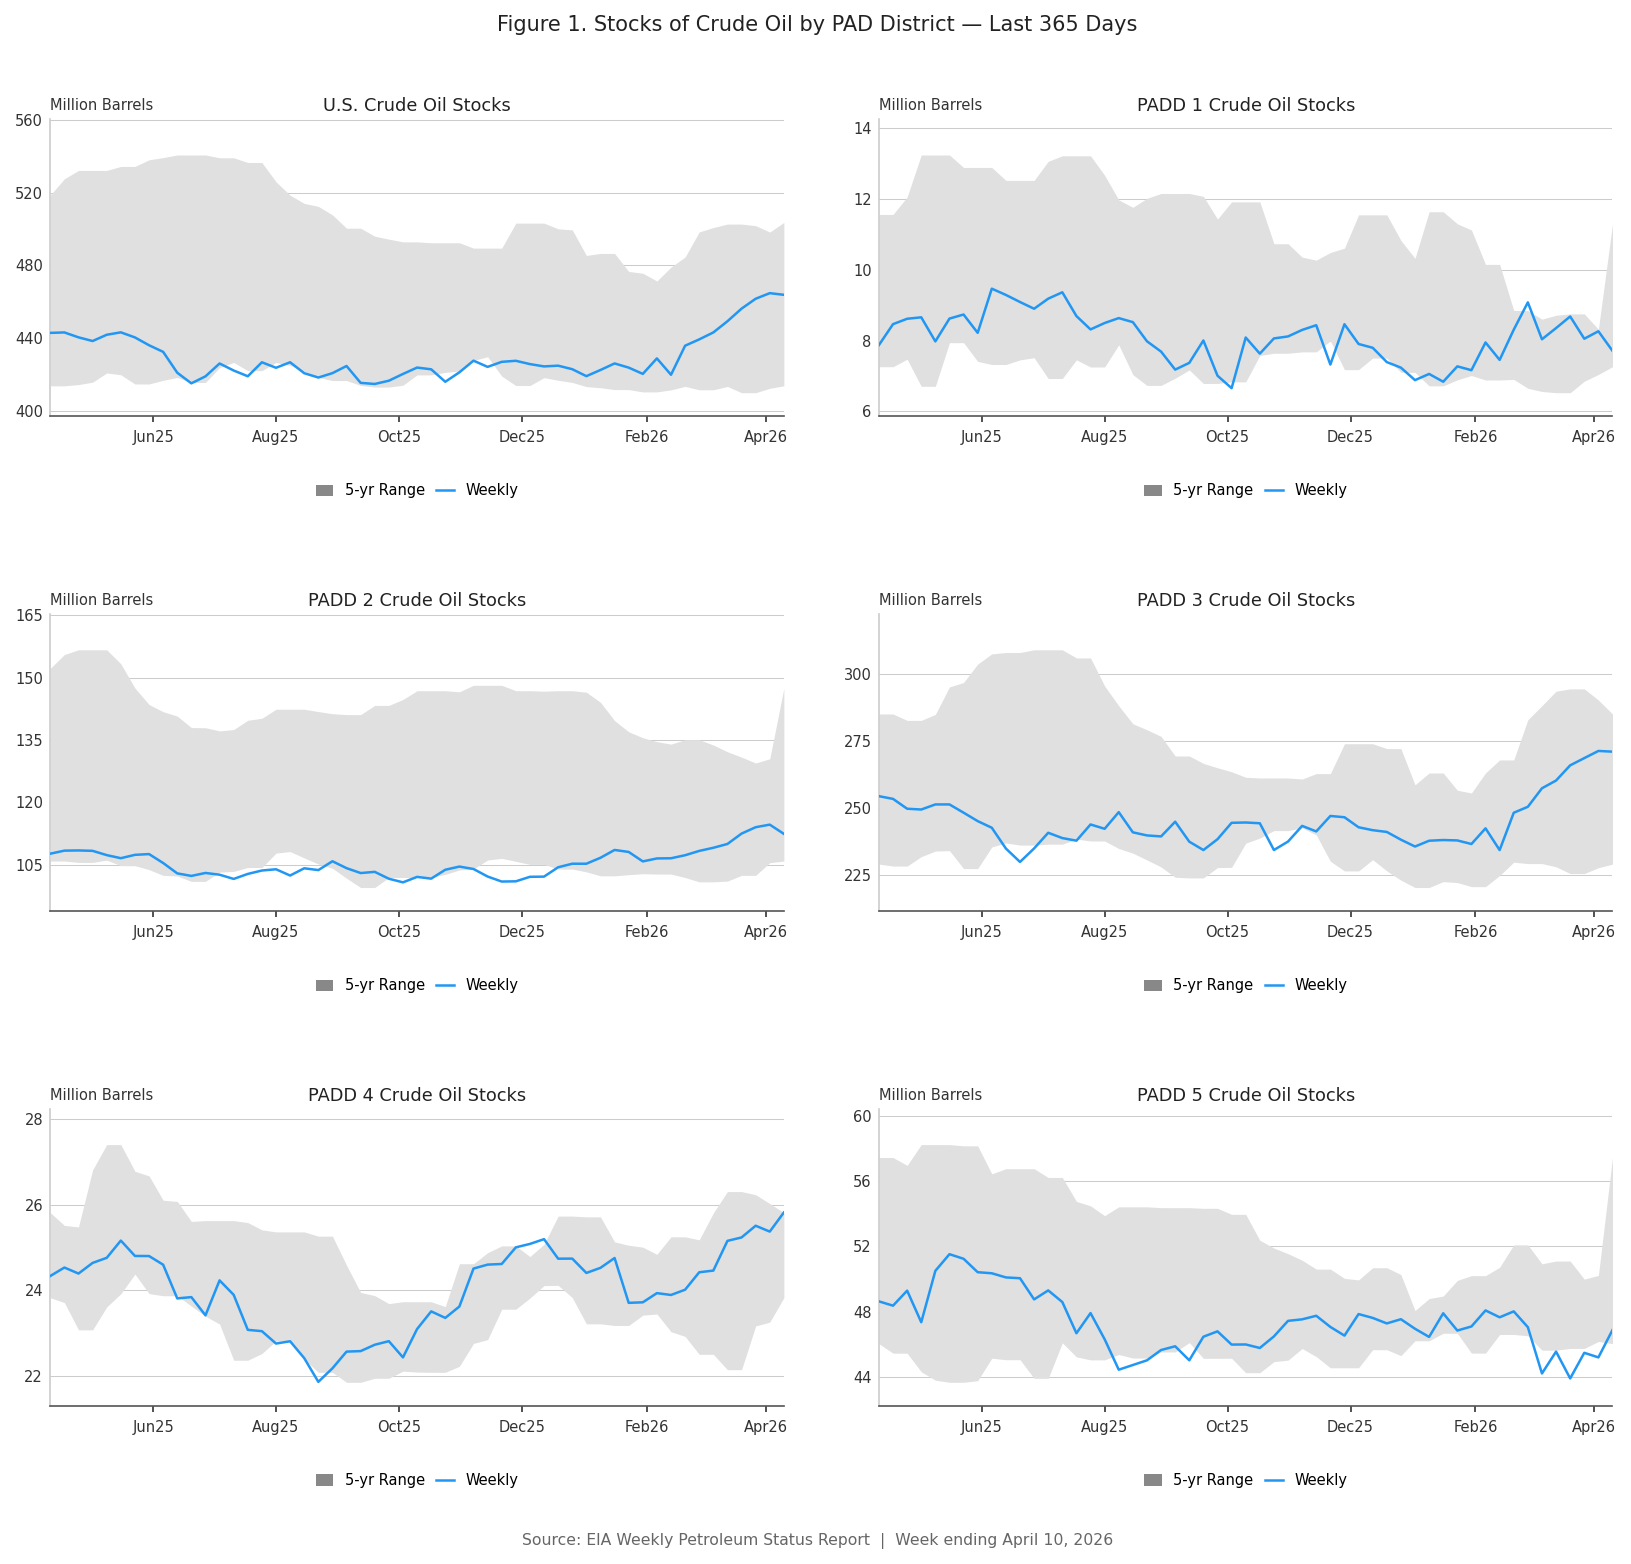
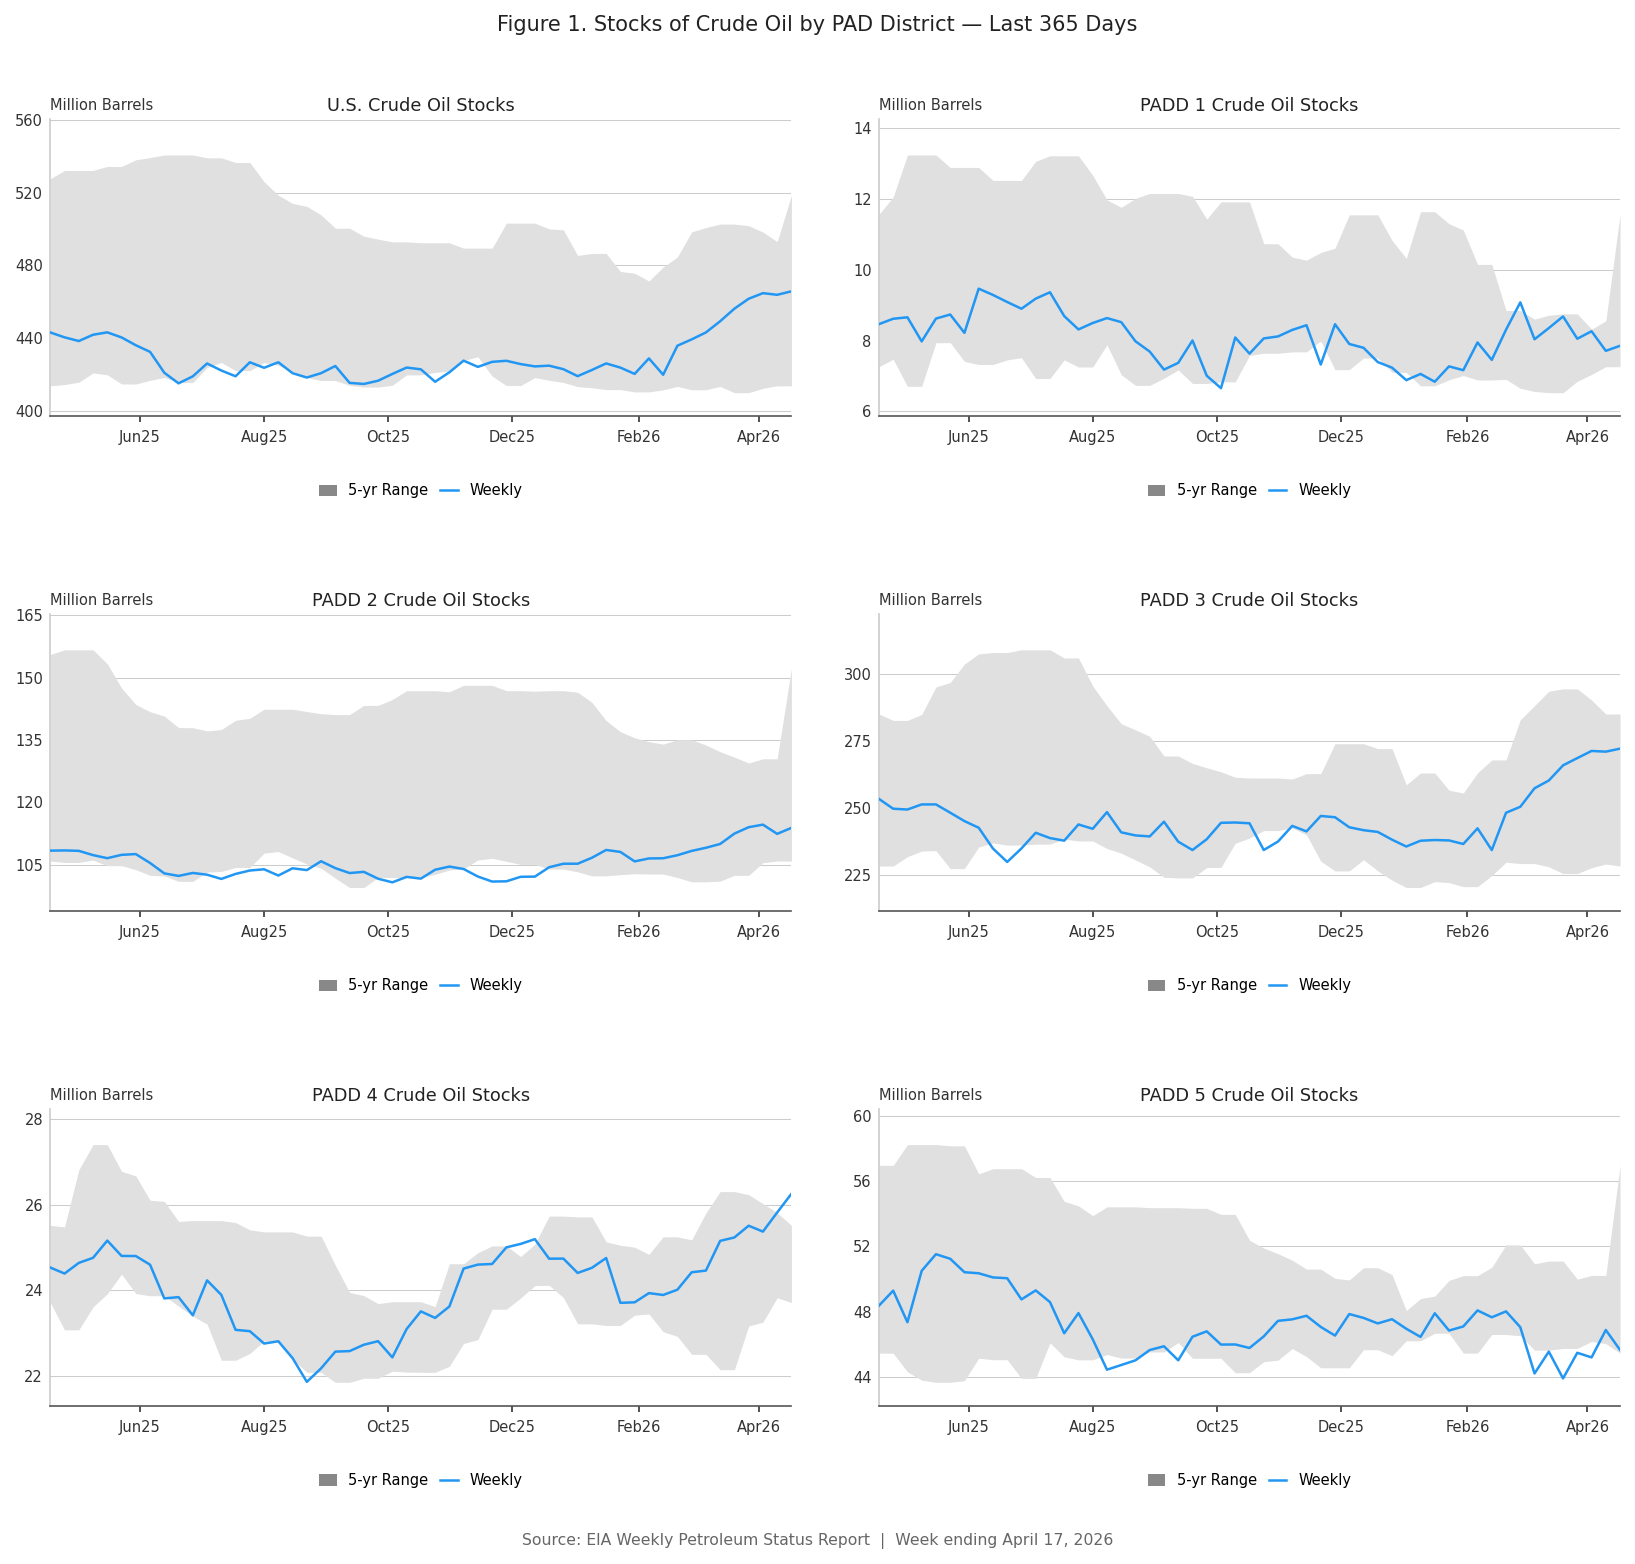
Update Crude Oil Stocks Weekly Chart - 2026-04-22 🤖

diff --git a/reports/crude-stocks/index.html b/reports/crude-stocks/index.html
@@ -3,7 +3,7 @@
 <head>
   <meta charset="UTF-8" />
   <meta name="viewport" content="width=device-width, initial-scale=1.0" />
-  <title>Crude Oil Stocks by PAD District — 2026-04-10</title>
+  <title>Crude Oil Stocks by PAD District — 2026-04-17</title>
   <style>
     *{box-sizing:border-box;margin:0;padding:0}
     body{background:#f5f5f5;font-family:Arial,sans-serif;display:flex;
@@ -21,10 +21,10 @@
 <body>
   <header>
     <h1>&#x1F6E2;&#xFE0F; Crude Oil Stocks by PAD District</h1>
-    <p>Last 365 days with 5-year seasonal range &mdash; week ending 2026-04-10</p>
+    <p>Last 365 days with 5-year seasonal range &mdash; week ending 2026-04-17</p>
   </header>
   <div class="chart-wrapper">
-    <img src="Crude_Stocks_Weekly_2026_04_22.png?v=1776877878" alt="Crude Oil Stocks by PADD 2026-04-10" />
+    <img src="Crude_Stocks_Weekly_2026_04_22.png?v=1776896062" alt="Crude Oil Stocks by PADD 2026-04-17" />
   </div>
   <footer>
     Source: <a href="https://www.eia.gov/petroleum/supply/weekly/" target="_blank">EIA Weekly Petroleum Status Report</a>
